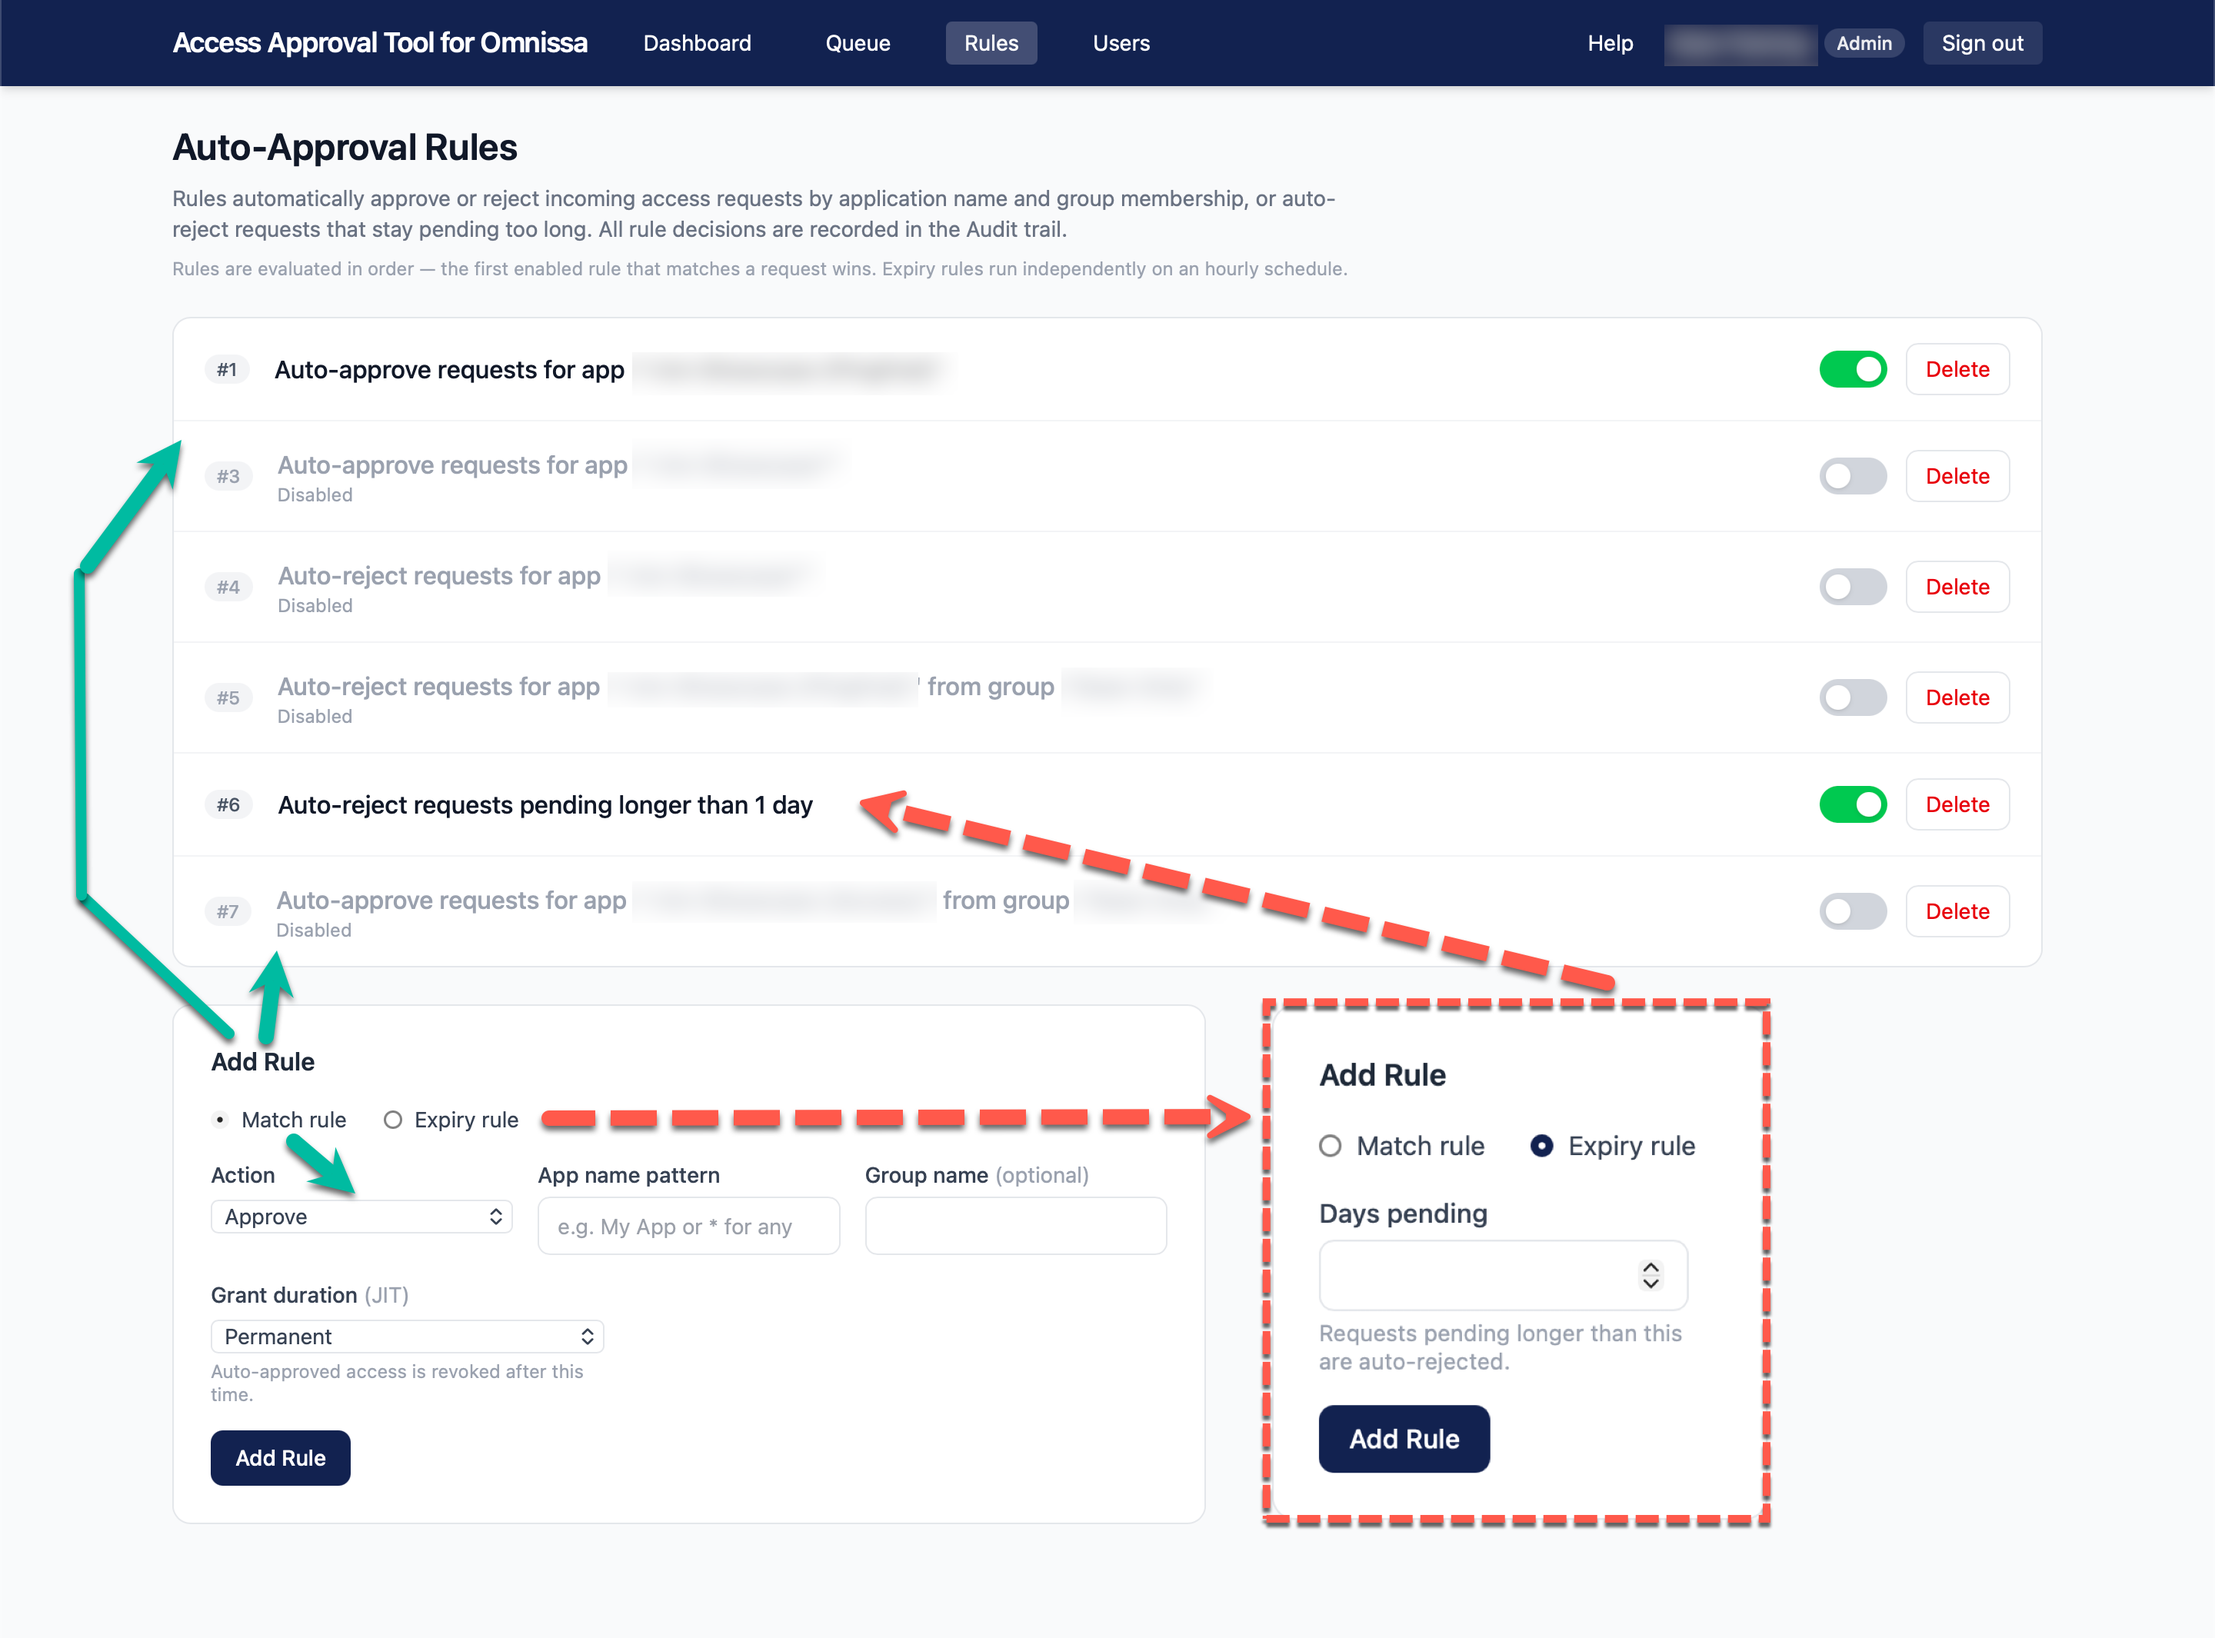
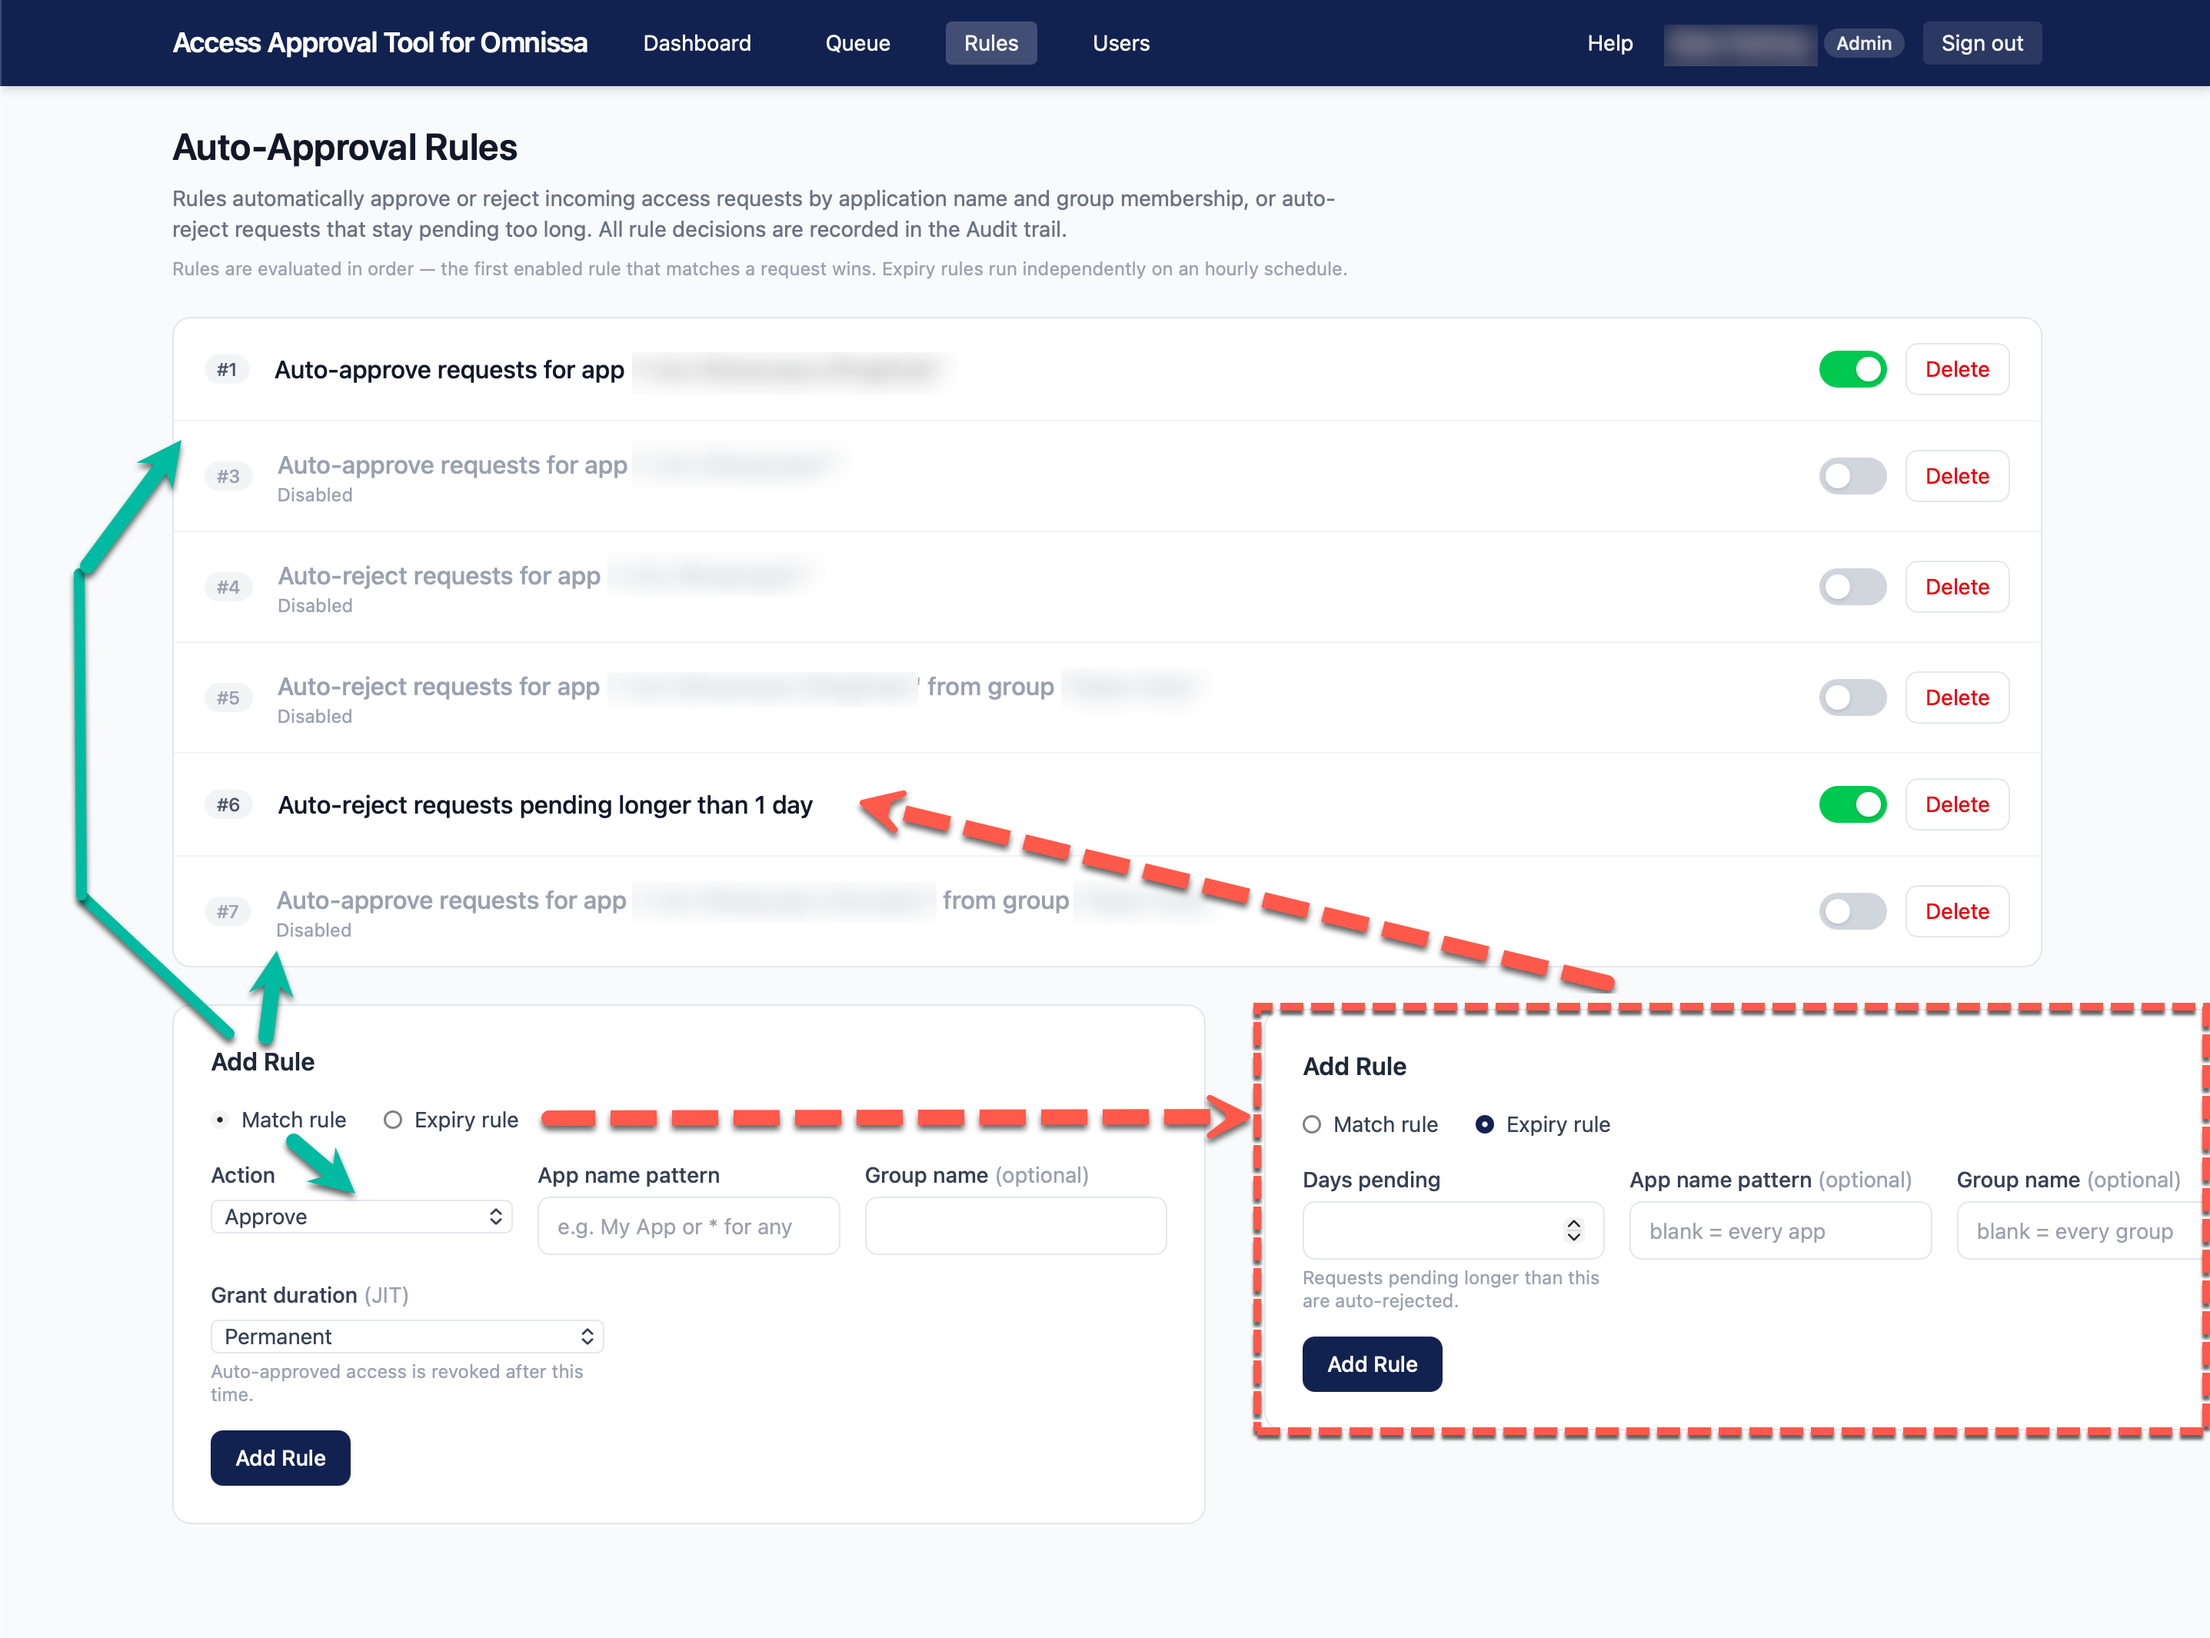
Show the expiry rule's new scoping fields in the documentation (#112)
1.19.3 added App name pattern and Group name to the expiry rule form, and
the reference documentation still pictured the form without them — a
reader would have found controls no screenshot showed.

tool-rules.png was re-captured and picks up automatically, because the
asset sync added in 1.19.2 compares content rather than trusting that
somebody remembered to copy it. That is the mechanism working: the build
reported refreshing both rules.png and expiry-rule.png without being
told which had changed.

app_expiry_rule.png returns as its own figure. It was dropped from the
first documentation pass as duplicating the inset in the rules-page
capture, which was true then and is not now: the inset renders about
15mm wide at print size, and the fields this release added are the point.
Figure 10 carries the context, Figure 11 carries the detail, and they
land on the same page.

Figures 11 through 21 renumbered to 12 through 22.

Claude-Session: https://claude.ai/code/session_01LCKDnH6XnPXeiKtDSKs61m

diff --git a/docs/publish/documentation.md b/docs/publish/documentation.md
@@ -251,6 +251,12 @@ appear in the audit trail and fire decision webhooks with rule attribution.
 disabled without deleting, and the Add Rule panel switches between the match
 form (left) and the expiry form (right).*
 
+![](assets/expiry-rule.png)
+
+*Figure 11 — the expiry form close up. Application pattern and group are
+optional and scope which stale requests the rule rejects; leaving both blank —
+the usual case — expires every one of them.*
+
 ### 2.7 Chat Approvals — Slack and Teams
 
 New requests can post to Slack or Microsoft Teams with **Approve**, **Reject**
@@ -260,13 +266,13 @@ signs in, and the ordinary role rules apply.
 
 ![](assets/chat-slack.png)
 
-*Figure 11 — Slack. New requests carry the three buttons; lifecycle events
+*Figure 12 — Slack. New requests carry the three buttons; lifecycle events
 (auto-approval, decisions, expiry, exclusions lifting) post as follow-up
 messages stating the consequence.*
 
 ![](assets/chat-teams.png)
 
-*Figure 12 — the same flow in Microsoft Teams via a Power Automate workflow.*
+*Figure 13 — the same flow in Microsoft Teams via a Power Automate workflow.*
 
 **Why deep links rather than deciding in chat.** A Slack interaction callback
 arrives at an endpoint where no signed-in user exists — the signature proves the
@@ -355,7 +361,7 @@ All of these are audited.
 
 ![](assets/users.png)
 
-*Figure 13 — the Users page. New accounts always start as Viewer; raising that
+*Figure 14 — the Users page. New accounts always start as Viewer; raising that
 is a separate, deliberate step.*
 
 > **The bootstrap variables cannot rotate a password.**
@@ -423,7 +429,7 @@ This is two-step confirmed, fully audited, and **never touches Omnissa Access**.
 
 ![](assets/delete-confirm.png)
 
-*Figure 14 — deletion is two-step: acknowledge the consequence, then type
+*Figure 15 — deletion is two-step: acknowledge the consequence, then type
 DELETE. Both steps restate that Access is not contacted.*
 
 **Deleting a request that is still pending is refused** (HTTP 409). Access holds
@@ -470,7 +476,7 @@ readable by every role, including Auditor.
 
 ![](assets/help-contents.png)
 
-*Figure 15 — the Help page and its nineteen-section contents list. Each entry
+*Figure 16 — the Help page and its nineteen-section contents list. Each entry
 jumps to its section, and each section offers a back-to-top link.*
 
 ---
@@ -573,7 +579,7 @@ the backup/restore scripts.
 
 ![](assets/access-service-client.png)
 
-*Figure 16 — service client in Omnissa Access (Service Client Token, admin scope).*
+*Figure 17 — service client in Omnissa Access (Service Client Token, admin scope).*
 
 ### 5.2 OIDC Admin Login Client
 
@@ -594,7 +600,7 @@ the backup/restore scripts.
 
 ![](assets/access-oidc-client.png)
 
-*Figure 17 — OIDC admin login client (authorization code + PKCE). Note: the scope
+*Figure 18 — OIDC admin login client (authorization code + PKCE). Note: the scope
 list must also include `group` for role resolution.*
 
 ### 5.3 Approvals Settings
@@ -607,7 +613,7 @@ DNS, TLS, or reachability problems (Section 9).
 
 ![](assets/access-approvals-settings.png)
 
-*Figure 18 — Settings → Approvals: REST API engine pointed at the callout URI.*
+*Figure 19 — Settings → Approvals: REST API engine pointed at the callout URI.*
 
 ### 5.4 Putting Applications Behind Approval
 
@@ -620,11 +626,11 @@ recorded in the tool.
 
 ![](assets/access-license-approval.png)
 
-*Figure 19 — License Approval Required on an application.*
+*Figure 20 — License Approval Required on an application.*
 
 ![](assets/access-assignment.png)
 
-*Figure 20 — assignment deployment type selection (User-Activated / Automatic).*
+*Figure 21 — assignment deployment type selection (User-Activated / Automatic).*
 
 ---
 
@@ -730,7 +736,7 @@ A complete demonstration takes roughly thirty minutes on a fresh tenant.
 
 ![](assets/hub-pending.png)
 
-*Figure 21 — the user side: PENDING until somebody, or a rule, says yes.*
+*Figure 22 — the user side: PENDING until somebody, or a rule, says yes.*
 
 ---
 
